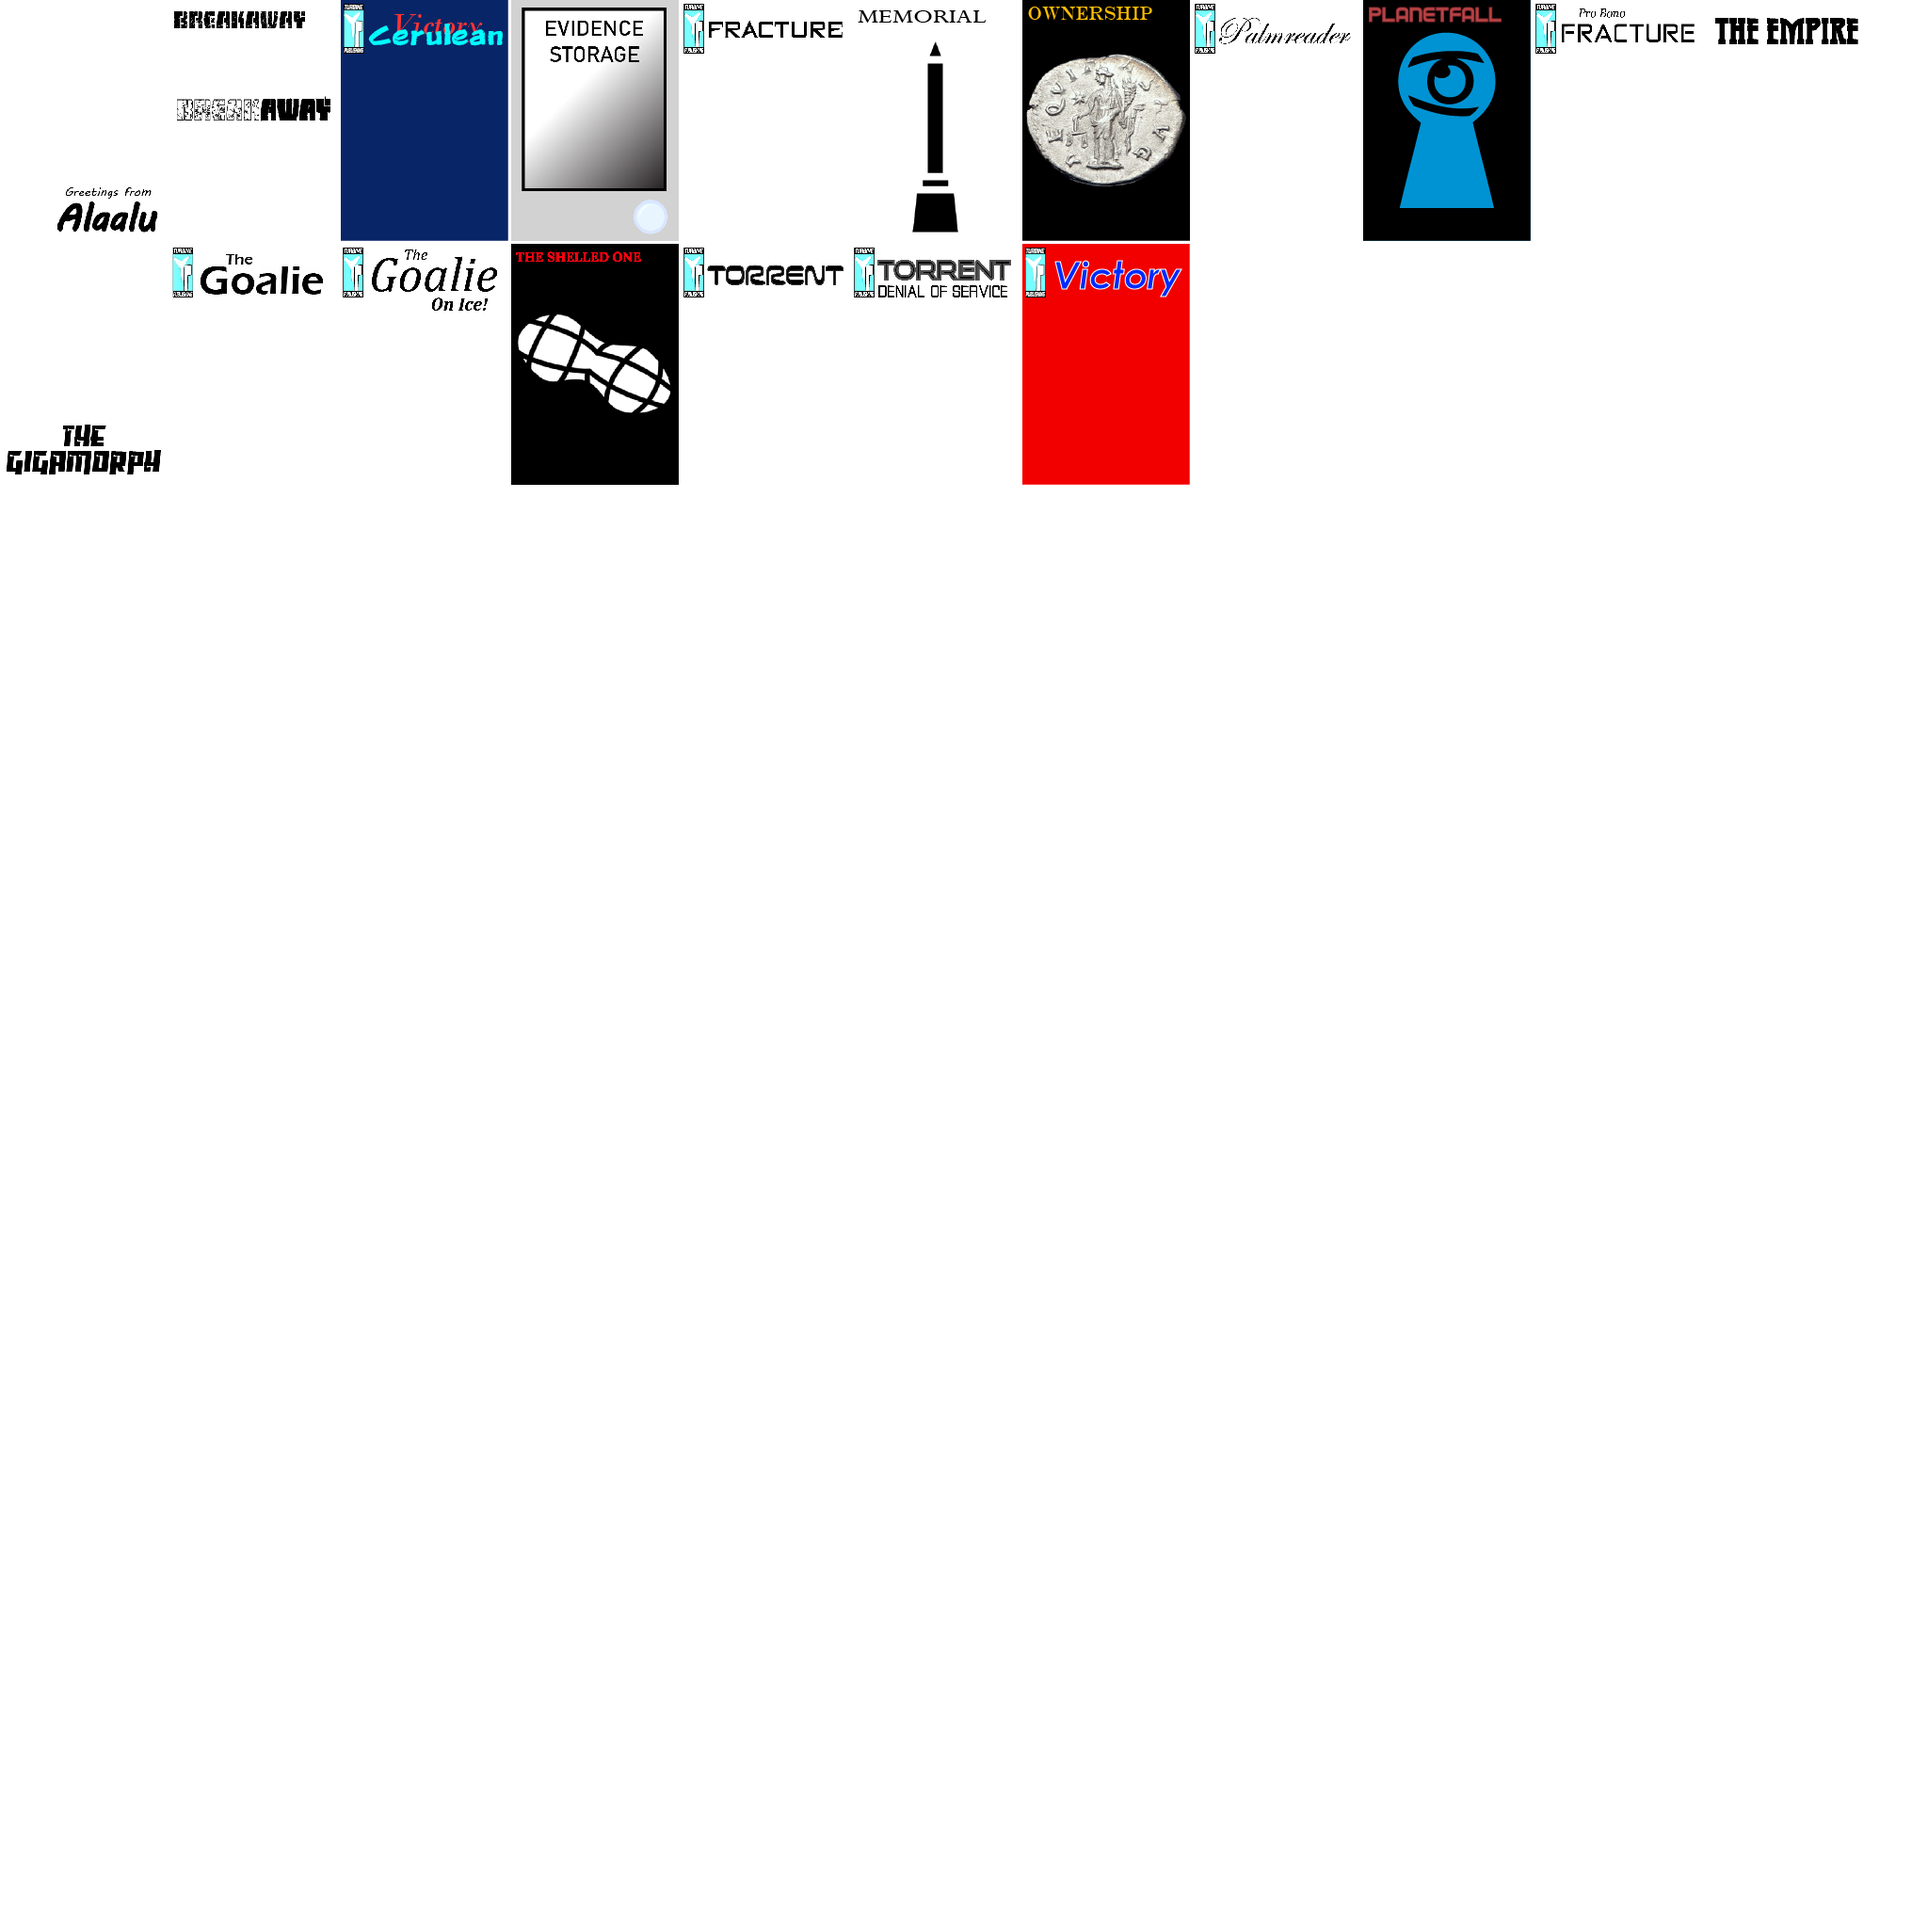
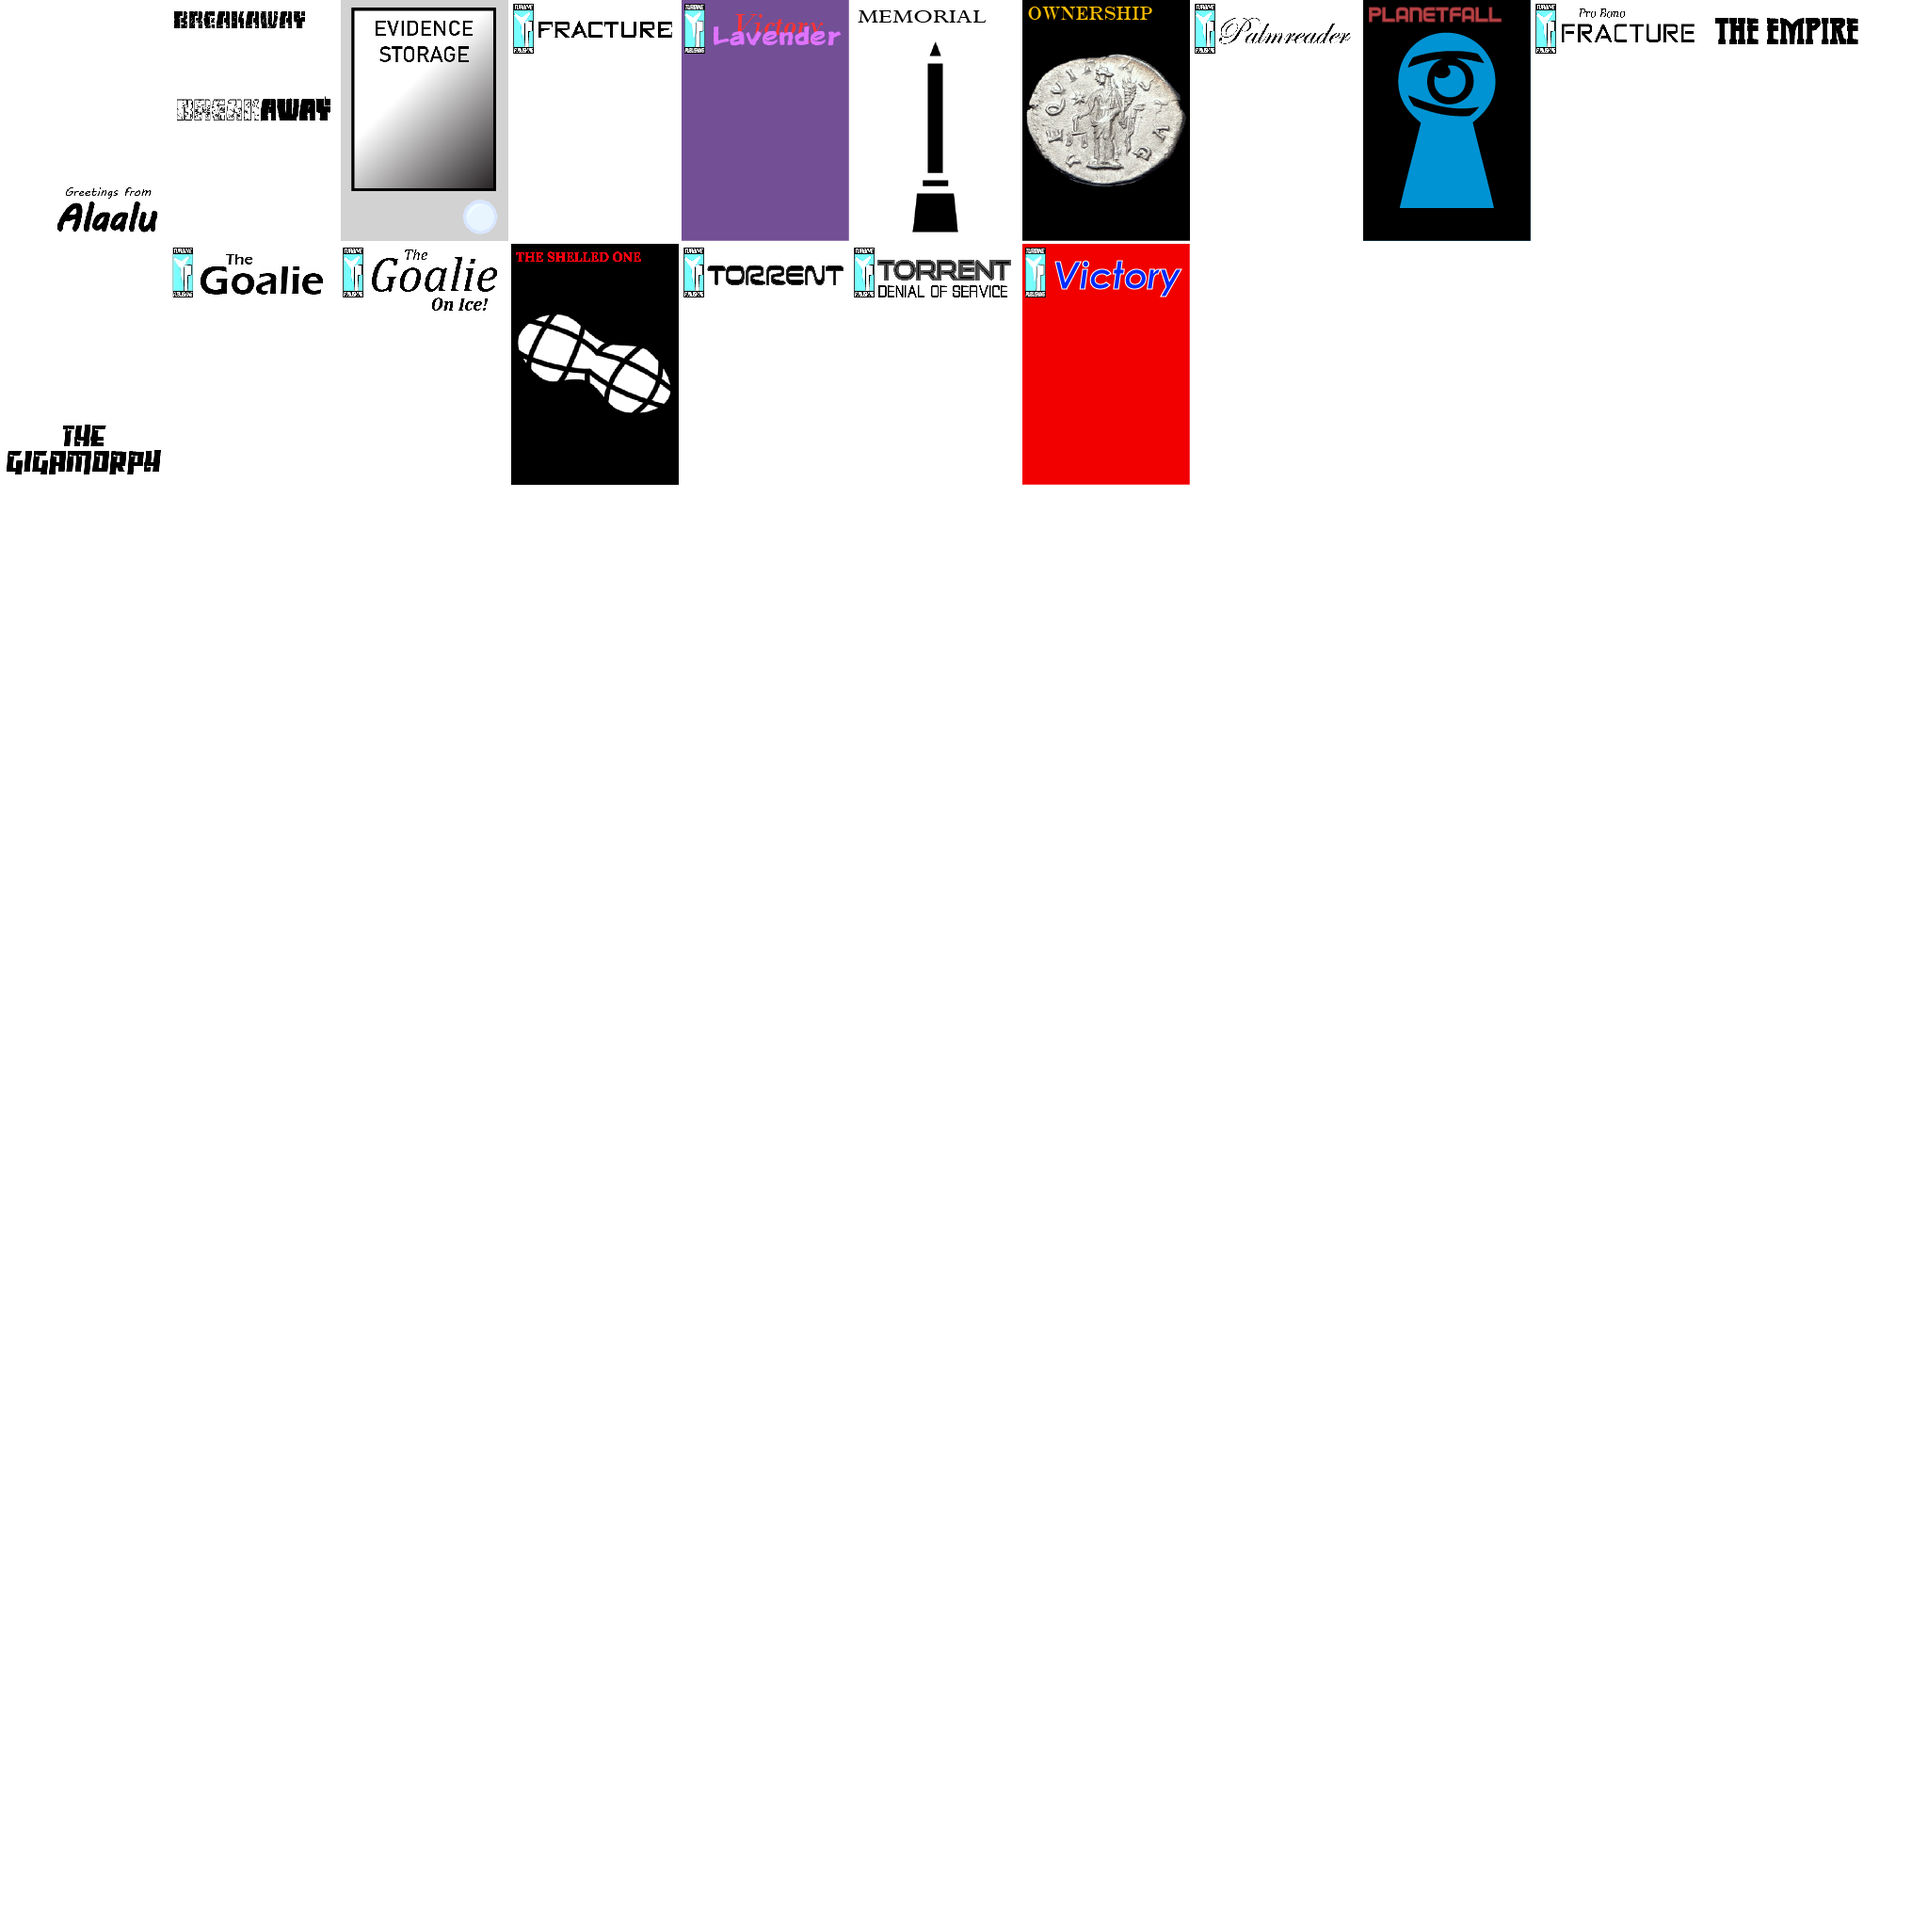
Rename Cerulean to Lavender

Changed region(s): [[0.1562, 0.0, 0.4375, 0.125]]

diff --git a/MyMod/Victory/LavenderCharacterCardController.cs b/MyMod/Victory/LavenderCharacterCardController.cs
@@ -9,9 +9,9 @@ using System.Text;
 
 namespace BartKFSentinels.Victory
 {
-    public class CeruleanCharacterCardController : HeroCharacterCardController
+    public class LavenderCharacterCardController : HeroCharacterCardController
     {
-        public CeruleanCharacterCardController(Card card, TurnTakerController turnTakerController)
+        public LavenderCharacterCardController(Card card, TurnTakerController turnTakerController)
             : base(card, turnTakerController)
         {
             // Show number of Ongoing cards in deck
